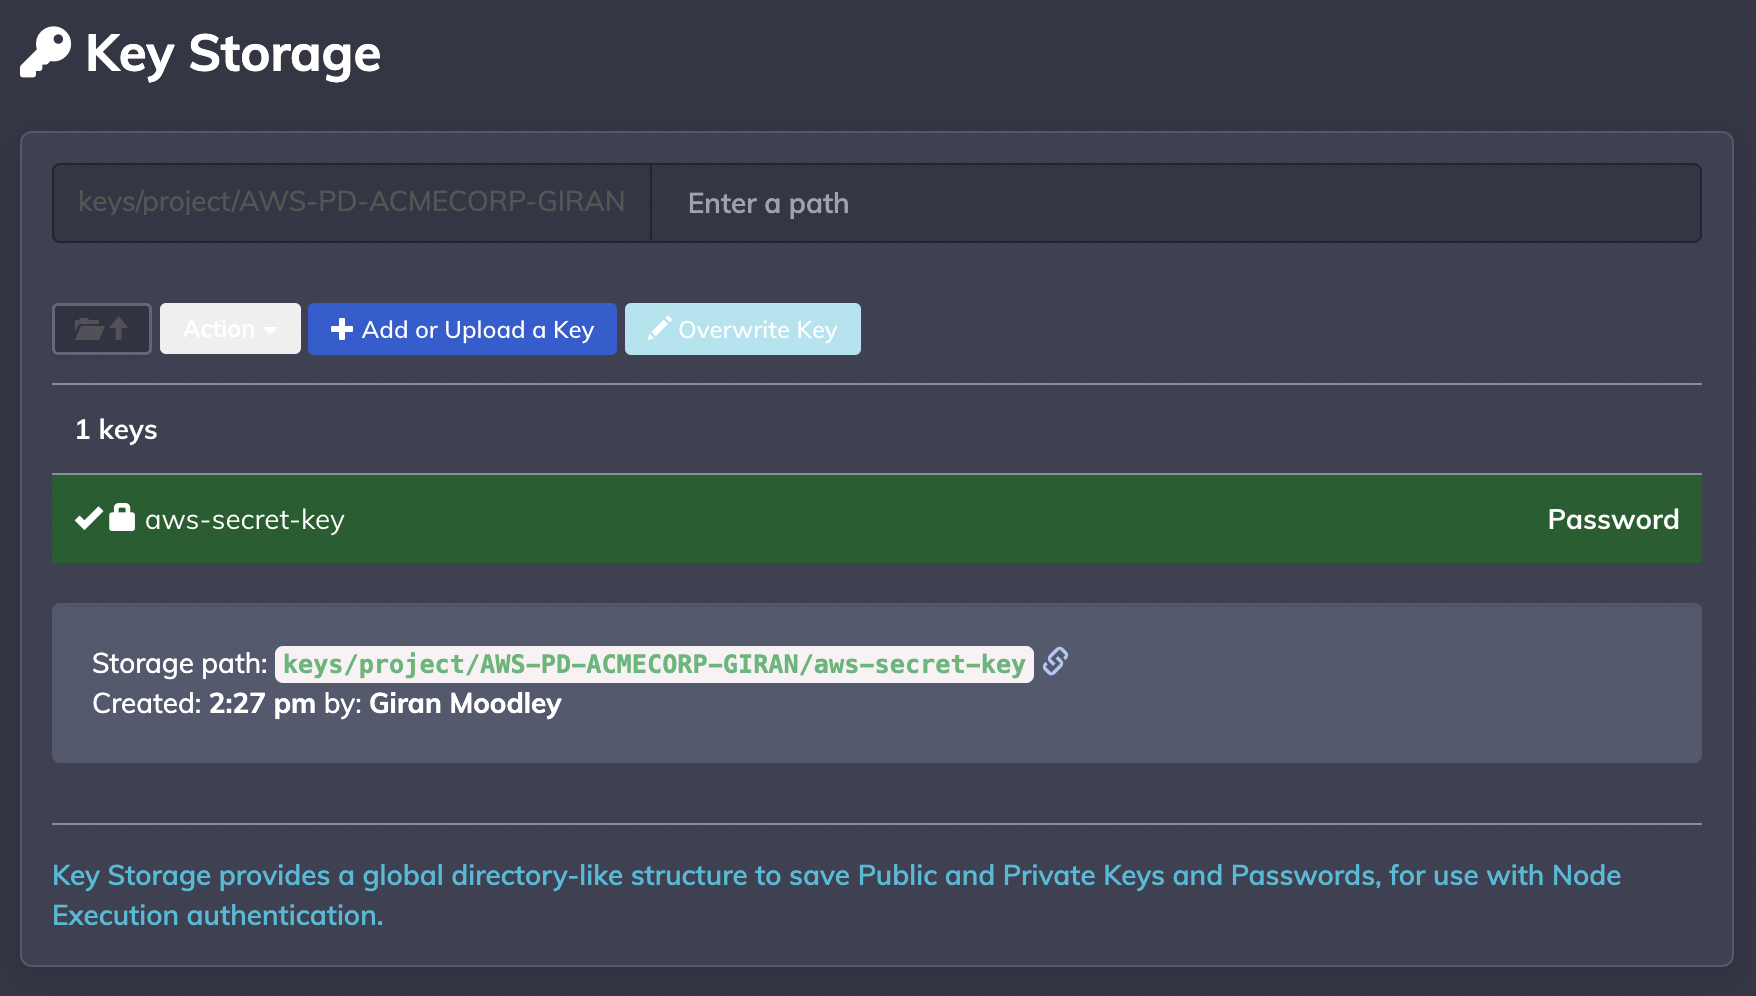
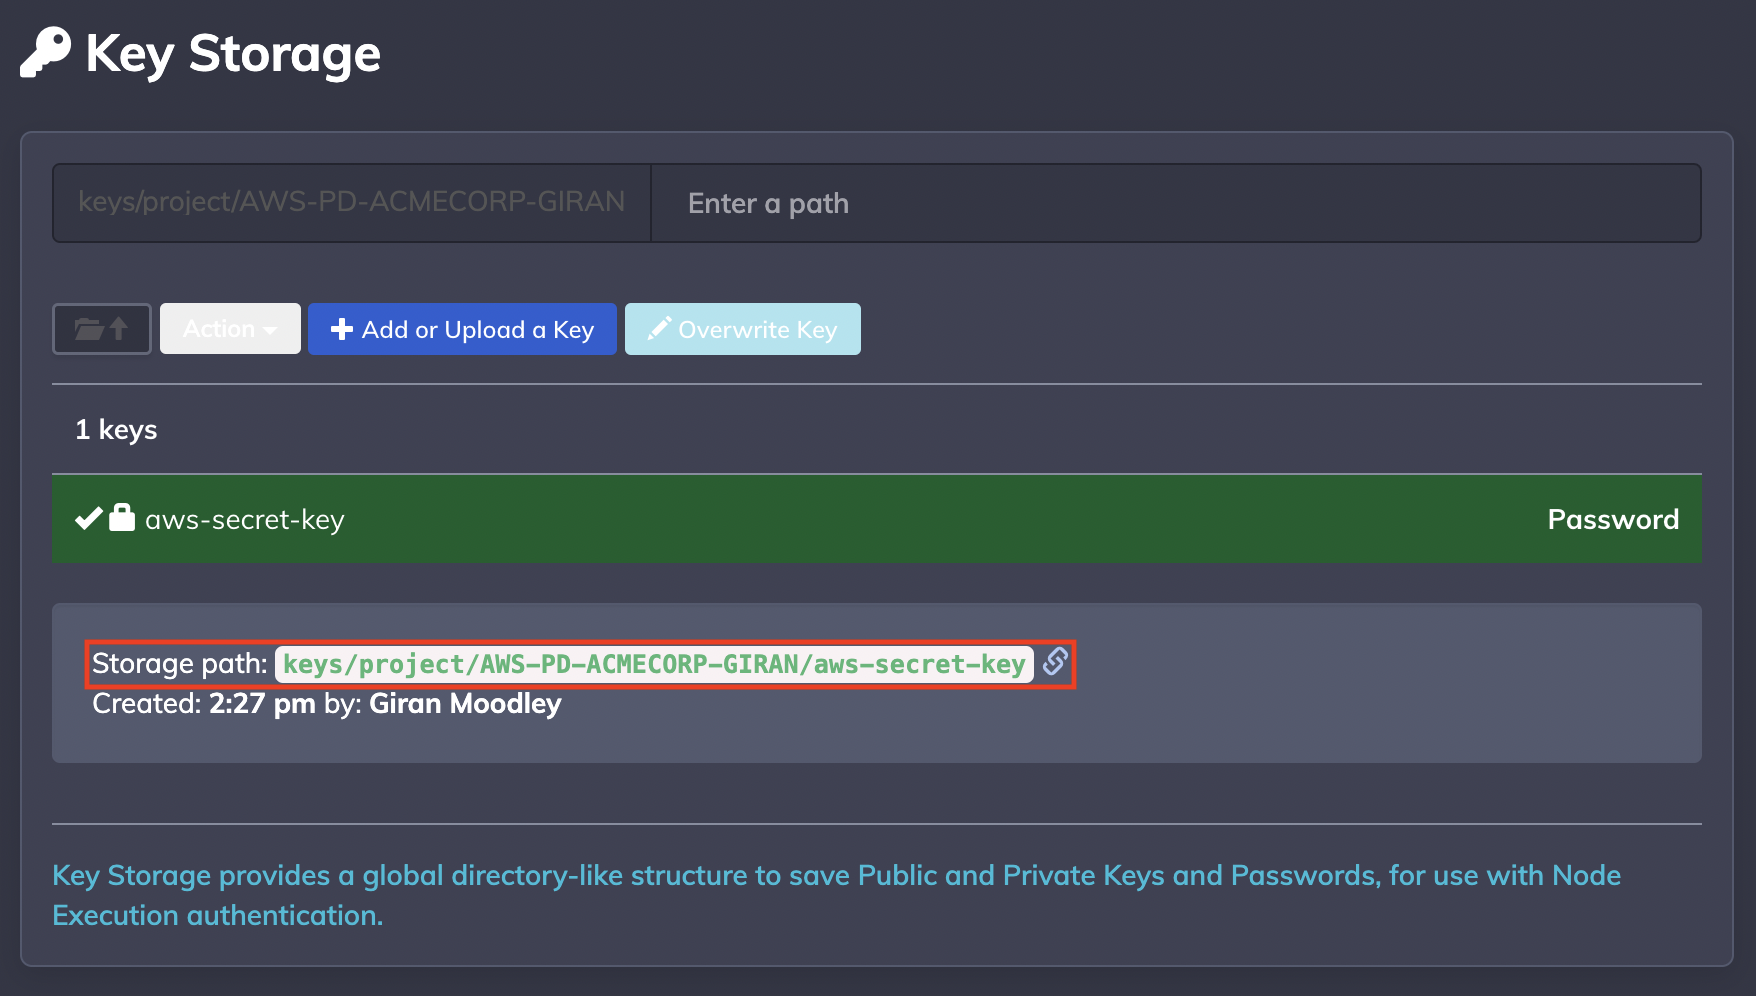
Added steps to create RBA job

Changed region(s): [[0.0308, 0.6225, 0.615, 0.7159]]

diff --git a/content/070_runbookautomation/page-3-jobs.md b/content/070_runbookautomation/page-3-jobs.md
@@ -1,12 +1,12 @@
 ---
-title: "Create and Execute Automation Jobs"
+title: "Create Automation Jobs"
 chapter: true
 weight: 3
 ---
 
-## Create and Execute Automation Jobs
+## Create Automation Jobs
 
-In this section, we will describe what a PagerDuty RBA Job is, as well as how to create and run a job to collect CloudWatch logs.
+In this section, we will describe what a PagerDuty RBA Job is, as well as how to create a job to collect CloudWatch logs using a pre-built plugin.
 
 ### What is a Job?
 
@@ -17,3 +17,78 @@ PagerDuty RBA jobs provide a means to encapsulate a process. A job is a configur
 - You might find certain command executions are done repeatedly, and perhaps, represent what has become a routine procedure.
 - Another user in your organization needs a simple self-service interface to run a procedure across a set of resources.
 - Routine processes need to be encapsulated and become the basis for other routine procedures.
+
+### Create Job
+
+From within the project page navigation panel, click on "Jobs", followed by "Create a new Job", this will bring up a job creation form.
+
+![](/images/pd_rba_job_setup_1.png)
+
+Under the "Details" tab, set Job Name to `Get NGINX Access Logs via AWS CloudWatch`.
+
+![](/images/pd_rba_job_setup_2.png)
+
+### Create Job Step
+
+Click on the "Workflow" tab and then scroll down to "Add a Step" - select "Workflow Steps" tab and then scroll down and select the "Aws / CloudWatch / Logs" plugin step.
+
+![](/images/pd_rba_job_setup_3.png)
+
+![](/images/pd_rba_job_setup_4.png)
+
+Update the job step with the following parameters listed below and click on "Save" once completed.
+
+#### Credentials
+
+- access keyID: AWS Access Key ID
+- Secret Key: The path to the AWS Secret Key uploaded earlier - you may use the select button to navigate for this path.
+
+#### Connection
+
+- Region: Select `us-east-1` under the dropdown to populate
+
+#### Query Settings
+
+- CloudWatch Log Group: Set to `/ec2/nginx/logs`
+- Unit of Time: Select `Minutes` under the dropdown to populate
+- Past Time Range: Enter `5` for 5 minute lookback
+
+#### CloudWatch Query
+
+- Query String: Copy and paste the following query
+  ```
+  fields @timestamp, @message
+  | sort @timestamp desc
+  | limit 100
+  ```
+
+#### Step Label
+
+You can provide a friendly label for job steps - i.e. `Get NGINX access.log`
+
+#### Screenshot of Job Step
+
+{{% notice info %}}
+
+<p style='text-align: left;'>
+Don't forget to save the job step itself - any modifications to any job steps will require the intermediate save step.
+</p>
+{{% /notice %}}
+
+![](/images/pd_rba_job_setup_5.png)
+
+### Complete Creation of Job
+
+{{% notice info %}}
+
+<p style='text-align: left;'>
+Once you have updated the job step details and clicked on "Save", you will need to save down the job definition itself.  
+Click on "Create" within the outer scope at the bottom to create and save the job.
+</p>
+{{% /notice %}}
+
+![](/images/pd_rba_job_setup_6.png)
+
+Once the job has been created, PagerDuty RBA will redirect you to the job execution page.
+
+![](/images/pd_rba_job_setup_7.png)

diff --git a/content/070_runbookautomation/page-5-summary.md b/content/070_runbookautomation/page-5-summary.md
@@ -15,4 +15,4 @@ In this section, we learned:
 
 - We created a Pagerduty RBA project and added AWS credentials to a keystore
 - We created a Pagerduty RBA job which retrieves NGINX logs via AWS CloudWatch
-- [TBC] We added EC2 Nodes to our PagerDuty RBA project which used Systems Manager (SSM) for connectivity and job execution
+- [Upcoming] We added EC2 Nodes to our PagerDuty RBA project which used Systems Manager (SSM) for connectivity and job execution

diff --git a/content/070_runbookautomation/page-2-setup.md b/content/070_runbookautomation/page-2-setup.md
@@ -42,4 +42,11 @@ Ensure that key type is set to "Password" and paste in your AWS Secret Key under
 
 Once entered, click on "Save" to upload and store your secret; this will be visible on page refresh.
 
+{{% notice info %}}
+
+<p style='text-align: left;'>
+Take note of the storage path of your AWS secret key; click on the link icon to copy the path for the next section
+</p>
+{{% /notice %}}
+
 ![](/images/pd_rba_project_setup_5.png)

diff --git a/content/070_runbookautomation/page-5-summary.ee.md b/content/070_runbookautomation/page-5-summary.ee.md
@@ -1,0 +1,1 @@
+page-5-summary.md
